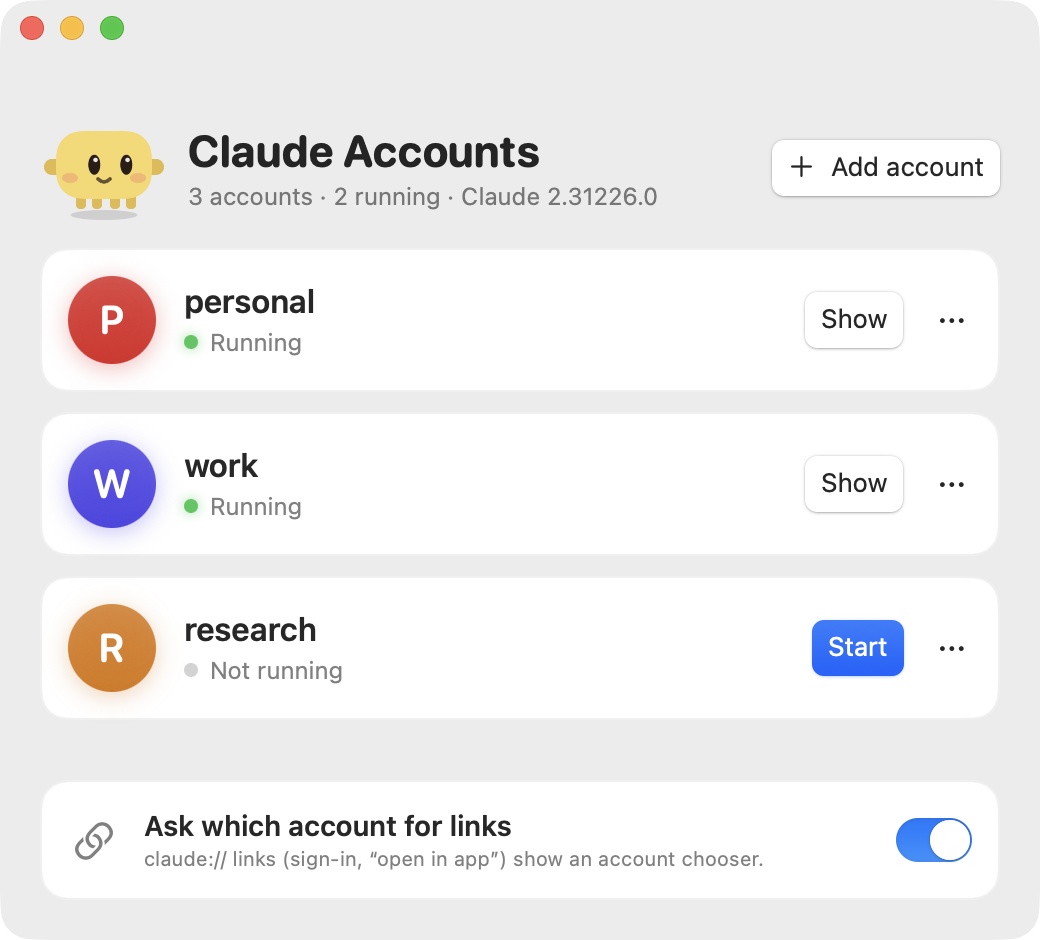
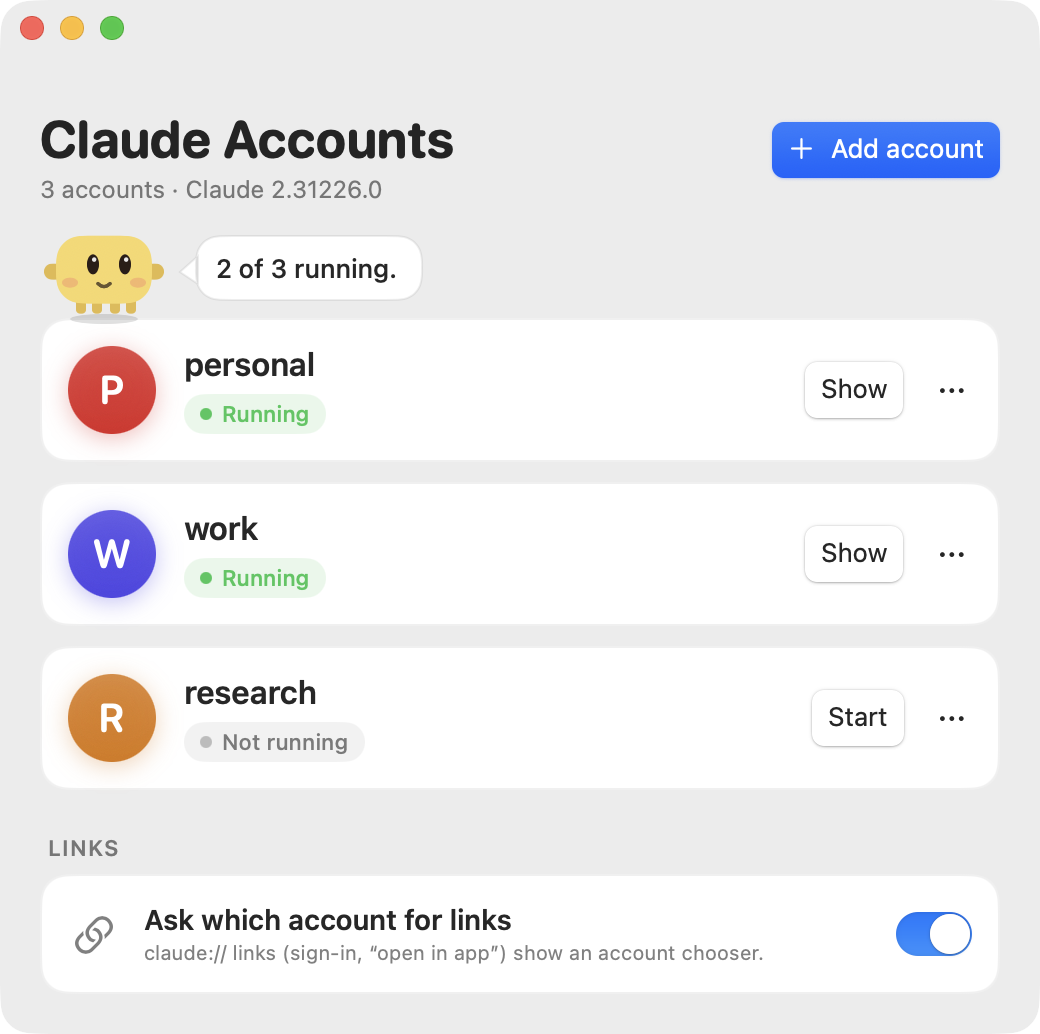
Window hierarchy with mascot bubble, hidden Edit/View menus, import of earlier setups, release notes file, Actions cleanup

diff --git a/Sources/ClaudeAccounts/ContentView.swift b/Sources/ClaudeAccounts/ContentView.swift
@@ -25,27 +25,56 @@ struct Card<Content: View>: View {
     }
 }
 
+/// Speech bubble with a small tail on the left, pointing at the mascot.
+struct BubbleShape: Shape {
+    func path(in r: CGRect) -> Path {
+        var p = Path()
+        let tail: CGFloat = 8
+        p.addRoundedRect(in: CGRect(x: r.minX + tail, y: r.minY, width: r.width - tail, height: r.height), cornerSize: CGSize(width: 12, height: 12))
+        p.move(to: CGPoint(x: r.minX + tail + 1, y: r.midY - 6))
+        p.addLine(to: CGPoint(x: r.minX, y: r.midY + 2))
+        p.addLine(to: CGPoint(x: r.minX + tail + 1, y: r.midY + 8))
+        p.closeSubpath()
+        return p
+    }
+}
+
+struct SectionLabel: View {
+    let text: String
+    init(_ t: String) { text = t }
+    var body: some View {
+        Text(text.uppercased()).font(.system(size: 11, weight: .semibold)).tracking(0.6).foregroundStyle(.secondary)
+            .padding(.leading, 4)
+    }
+}
+
 struct ContentView: View {
     @EnvironmentObject var m: Manager
+    @ObservedObject private var updates = Updates.shared
     @State private var newName = ""
     @State private var firstName = "personal"
     @State private var happyUntil = Date.distantPast
     private let tick = Timer.publish(every: 2, on: .main, in: .common).autoconnect()
 
     var body: some View {
-        VStack(spacing: 0) {
+        VStack(alignment: .leading, spacing: 0) {
             header
             if Paths.sourceApp == nil {
                 message("Claude.app not found", "Install Claude Desktop in /Applications first, then reopen this app.")
             } else if m.accounts.isEmpty {
                 firstRun
             } else {
+                mascotRow
                 ScrollView {
-                    VStack(spacing: 10) { ForEach(m.accounts) { row($0) } }.padding(.horizontal, 20).padding(.bottom, 16)
+                    VStack(spacing: 10) {
+                        ForEach(m.accounts) { row($0) }
+                        ForEach(m.importable(), id: \.dir) { importCard($0) }
+                    }.padding(.horizontal, 20).padding(.vertical, 2)
                 }
-                .frame(height: CGFloat(min(m.accounts.count, 6)) * 80 + 6) // the window grows with the list
+                .frame(height: listHeight)
+                SectionLabel("Links").padding(.horizontal, 20).padding(.top, 14).padding(.bottom, 6)
+                routingCard.padding(.horizontal, 20).padding(.bottom, 20)
             }
-            routingCard.padding(20).padding(.top, 0)
         }
         .background(Color(nsColor: .windowBackgroundColor))
         .onAppear { m.refresh(); m.healAgentPath() }
@@ -58,31 +87,53 @@ struct ContentView: View {
         .sheet(isPresented: $m.showAdd) { addSheet }
     }
 
+    private var listHeight: CGFloat { CGFloat(min(m.accounts.count + m.importable().count, 6)) * 80 + 6 }
+
     // MARK: pieces
 
     private var header: some View {
-        HStack(alignment: .center, spacing: 10) {
-            Mascot(happyUntil: happyUntil).onTapGesture { cheer() }
-            VStack(alignment: .leading, spacing: 2) {
-                Text("Claude Accounts").font(.system(size: 22, weight: .bold, design: .rounded))
+        HStack(alignment: .firstTextBaseline) {
+            VStack(alignment: .leading, spacing: 3) {
+                Text("Claude Accounts").font(.system(size: 26, weight: .bold, design: .rounded))
                 Text(subtitle).font(.callout).foregroundStyle(.secondary)
             }
             Spacer()
             if !m.accounts.isEmpty {
                 Button { newName = ""; m.showAdd = true } label: { Label("Add account", systemImage: "plus") }
-                    .controlSize(.large)
+                    .buttonStyle(.borderedProminent).controlSize(.large)
             }
         }
-        .padding(.horizontal, 20).padding(.top, 28).padding(.bottom, 12)
+        .padding(.horizontal, 20).padding(.top, 26).padding(.bottom, 6)
     }
-
-    private func cheer() { happyUntil = Date().addingTimeInterval(1.6) }
 
     private var subtitle: String {
         let n = m.accounts.count
-        let up = m.running.count
         if n == 0 { return "Several Claude sign-ins, side by side" }
-        return "\(n) account\(n == 1 ? "" : "s") · \(up) running" + (m.sourceVersion.map { " · Claude \($0)" } ?? "")
+        return "\(n) account\(n == 1 ? "" : "s")" + (m.sourceVersion.map { " · Claude \($0)" } ?? "")
+    }
+
+    /// The mascot stands on the edge of the account list and comments on what is going on.
+    private var mascotRow: some View {
+        HStack(alignment: .bottom, spacing: 6) {
+            Mascot(happyUntil: happyUntil).onTapGesture { cheer() }
+            Text(bubbleText)
+                .font(.system(size: 13, weight: .medium))
+                .padding(.leading, 18).padding(.trailing, 12).padding(.vertical, 8)
+                .background(BubbleShape().fill(Color(nsColor: .controlBackgroundColor)))
+                .overlay(BubbleShape().stroke(Color.primary.opacity(0.08)))
+                .padding(.bottom, 14)
+                .animation(.easeInOut(duration: 0.2), value: bubbleText)
+            Spacer()
+        }
+        .padding(.horizontal, 20).padding(.bottom, -7).zIndex(1)
+    }
+
+    private var bubbleText: String {
+        let n = m.accounts.count, up = m.running.count
+        if updates.available { return "A new version is ready. See the app menu." }
+        if up == 0 { return "Hi! Pick an account to start." }
+        if up == n { return n == 1 ? "All set, it's running." : "All \(n) running." }
+        return "\(up) of \(n) running."
     }
 
     private func row(_ a: Account) -> some View {
@@ -90,20 +141,19 @@ struct ContentView: View {
         return Card {
             HStack(spacing: 14) {
                 BadgeView(name: a.name)
-                VStack(alignment: .leading, spacing: 3) {
+                VStack(alignment: .leading, spacing: 5) {
                     Text(a.name).font(.system(size: 16, weight: .semibold))
-                    HStack(spacing: 6) {
-                        Circle().fill(isUp ? Color.green : Color.secondary.opacity(0.35)).frame(width: 7, height: 7)
-                            .shadow(color: isUp ? .green.opacity(0.6) : .clear, radius: 3)
-                        Text(isUp ? "Running" : "Not running").font(.callout).foregroundStyle(.secondary)
+                    HStack(spacing: 5) {
+                        Circle().fill(isUp ? Color.green : Color.secondary.opacity(0.45)).frame(width: 6, height: 6)
+                        Text(isUp ? "Running" : "Not running").font(.system(size: 11, weight: .medium))
+                            .foregroundStyle(isUp ? Color.green : Color.secondary)
                     }
+                    .padding(.horizontal, 8).padding(.vertical, 3)
+                    .background(Capsule().fill(isUp ? Color.green.opacity(0.13) : Color.primary.opacity(0.06)))
                 }
                 Spacer()
-                if isUp {
-                    Button("Show") { m.startReportingErrors(a) }.buttonStyle(.bordered).controlSize(.large)
-                } else {
-                    Button("Start") { m.startReportingErrors(a) }.buttonStyle(.borderedProminent).controlSize(.large)
-                }
+                Button(isUp ? "Show" : "Start") { m.startReportingErrors(a) }
+                    .buttonStyle(.bordered).controlSize(.large).foregroundStyle(isUp ? Color.primary : Color.accentColor)
                 Menu {
                     Button(m.hasLauncher(a) ? "Recreate launcher" : "Create launcher in Applications") { m.makeLauncher(a) }
                     Button("Show data folder") {
@@ -114,6 +164,21 @@ struct ContentView: View {
                     Button("Remove account…", role: .destructive) { m.remove(a) }
                 } label: { Image(systemName: "ellipsis").font(.system(size: 15, weight: .semibold)).frame(width: 26, height: 26) }
                     .menuStyle(.borderlessButton).menuIndicator(.hidden).fixedSize()
+            }
+        }
+    }
+
+    private func importCard(_ f: (name: String, dir: String)) -> some View {
+        Card {
+            HStack(spacing: 12) {
+                Image(systemName: "tray.and.arrow.down").font(.system(size: 18)).foregroundStyle(.secondary).frame(width: 30)
+                VStack(alignment: .leading, spacing: 2) {
+                    Text("Found “Claude-\(f.name)”").font(.system(size: 14, weight: .semibold))
+                    Text("An earlier Claude sign-in on this Mac.").font(.caption).foregroundStyle(.secondary)
+                }
+                Spacer()
+                Button("Not now") { m.dismissImport(dir: f.dir) }.buttonStyle(.plain).foregroundStyle(.secondary).font(.callout)
+                Button("Add as “\(f.name)”") { m.addImported(name: f.name, dir: f.dir) }.buttonStyle(.bordered)
             }
         }
     }
@@ -134,6 +199,8 @@ struct ContentView: View {
         }
     }
 
+    private func cheer() { happyUntil = Date().addingTimeInterval(1.6) }
+
     private func message(_ title: String, _ text: String) -> some View {
         VStack(spacing: 8) {
             Text(title).font(.title3.bold())
@@ -143,7 +210,6 @@ struct ContentView: View {
 
     private var firstRun: some View {
         VStack(spacing: 16) {
-            Spacer()
             Mascot(happyUntil: happyUntil, scale: 1.6).onTapGesture { cheer() }
             Text("Your current Claude sign-in becomes the first account.").font(.headline)
             Text("Add more afterwards; each one gets its own sign-in and its own copy of Claude.")
@@ -154,8 +220,7 @@ struct ContentView: View {
             }
             Button("Get started") { m.addExistingLogin(named: firstName.trimmingCharacters(in: .whitespaces)) }
                 .buttonStyle(.borderedProminent).controlSize(.large).keyboardShortcut(.defaultAction)
-            Spacer()
-        }.padding(.horizontal, 32).frame(maxWidth: .infinity).frame(height: 330)
+        }.padding(.horizontal, 32).padding(.vertical, 20).frame(maxWidth: .infinity)
     }
 
     private var addSheet: some View {

diff --git a/Sources/ClaudeAccounts/Manager.swift b/Sources/ClaudeAccounts/Manager.swift
@@ -146,6 +146,36 @@ final class Manager: ObservableObject {
         Account(name: name, dataDir: Paths.appSupport + "/Claude-" + name, appPath: Paths.apps + "/" + name + "/Claude.app")
     }
 
+    /// Data folders of earlier "one --user-data-dir per account" setups (~/Library/Application Support/Claude-<name>)
+    /// that are not registered yet. Only folder names are looked at, never their contents.
+    func importable() -> [(name: String, dir: String)] {
+        let known = Set(accounts.compactMap(\.dataDir))
+        let names = (try? FileManager.default.contentsOfDirectory(atPath: Paths.importScanDir)) ?? []
+        // "Claude-3p" belongs to Claude's own third-party mode, not to an account
+        let ignored = Set(UserDefaults.standard.stringArray(forKey: "ignoredImports") ?? []).union(["Claude-3p"])
+        return names.sorted().compactMap { n in
+            guard n.hasPrefix("Claude-"), !ignored.contains(n) else { return nil }
+            let name = String(n.dropFirst("Claude-".count)), dir = Paths.importScanDir + "/" + n
+            guard Registry.validName(name), !known.contains(dir),
+                  !accounts.contains(where: { $0.name.caseInsensitiveCompare(name) == .orderedSame }) else { return nil }
+            return (name, dir)
+        }
+    }
+
+    func dismissImport(dir: String) {
+        let n = (dir as NSString).lastPathComponent
+        UserDefaults.standard.set((UserDefaults.standard.stringArray(forKey: "ignoredImports") ?? []) + [n], forKey: "ignoredImports")
+        objectWillChange.send()
+    }
+
+    /// Registers an existing data folder as an account (its own copy of Claude.app, the sign-in stays where it is).
+    func addImported(name: String, dir: String) {
+        let a = Account(name: name, dataDir: dir, appPath: Paths.apps + "/" + name + "/Claude.app")
+        do { try ensureCopy(a) } catch { self.error = error.localizedDescription; return }
+        accounts.append(a); Registry.save(accounts); log("imported \(name) from \(dir)")
+        makeLauncher(a)
+    }
+
     /// First account of a fresh setup: the user's existing Claude login (default data folder, original app).
     func addExistingLogin(named name: String) {
         guard let src = Paths.sourceApp else { error = "Claude.app was not found in /Applications."; return }

diff --git a/Sources/ClaudeAccounts/App.swift b/Sources/ClaudeAccounts/App.swift
@@ -1,6 +1,13 @@
 import SwiftUI
 
 final class AppDelegate: NSObject, NSApplicationDelegate {
+    func applicationDidFinishLaunching(_ notification: Notification) {
+        // SwiftUI rebuilds the menu bar now and then; hide the unneeded Edit and View menus again each time.
+        NotificationCenter.default.addObserver(forName: NSApplication.didUpdateNotification, object: nil, queue: .main) { _ in
+            MainActor.assumeIsolated { hideUnneededMenus() }
+        }
+    }
+
     func application(_ application: NSApplication, open urls: [URL]) {
         Task { @MainActor in
             let m = Manager.shared
@@ -18,6 +25,18 @@ final class AppDelegate: NSObject, NSApplicationDelegate {
     }
 
     func applicationShouldTerminateAfterLastWindowClosed(_ sender: NSApplication) -> Bool { true }
+}
+
+/// Hides the Edit and View menus (found by their contents, not their titles, so it works in any language). Hidden, not
+/// removed: the Cmd-C/V/X/A shortcuts must keep working in text fields.
+@MainActor
+func hideUnneededMenus() {
+    for item in NSApp.mainMenu?.items ?? [] where !item.isHidden {
+        guard let items = item.submenu?.items else { continue }
+        let actions = items.compactMap(\.action)
+        // Edit has the standard paste action; View is left holding nothing but separators
+        if actions.contains(#selector(NSText.paste(_:))) || items.allSatisfy(\.isSeparatorItem) { item.isHidden = true }
+    }
 }
 
 enum Links { static let repo = URL(string: "https://github.com/tschannik/claude-account-router")! }

diff --git a/Sources/ClaudeAccounts/Updates.swift b/Sources/ClaudeAccounts/Updates.swift
@@ -9,6 +9,7 @@ final class Updates: ObservableObject {
 
     /// Set when a newer version was found; the mascot hops for joy.
     @Published var found = Date.distantPast
+    @Published var available = false
 
     private let delegate = Delegate()
     private(set) var controller: SPUStandardUpdaterController?
@@ -19,7 +20,7 @@ final class Updates: ObservableObject {
         let info = Bundle.main.infoDictionary ?? [:]
         let version = info["CFBundleShortVersionString"] as? String ?? ""
         guard info["SUFeedURL"] != nil, !version.contains("dev") else { return }
-        delegate.onFound = { [weak self] in Task { @MainActor in self?.found = Date().addingTimeInterval(1.6) } }
+        delegate.onFound = { [weak self] in Task { @MainActor in self?.found = Date().addingTimeInterval(1.6); self?.available = true } }
         controller = SPUStandardUpdaterController(startingUpdater: true, updaterDelegate: delegate, userDriverDelegate: nil)
     }
 

diff --git a/Sources/ClaudeAccounts/Registry.swift b/Sources/ClaudeAccounts/Registry.swift
@@ -23,6 +23,9 @@ enum Paths {
     static let agentPlist = home + "/Library/LaunchAgents/" + agentLabel + ".plist"
     static let launchServicesPrefs = home + "/Library/Preferences/com.apple.LaunchServices/com.apple.launchservices.secure.plist"
 
+    // Where earlier setups left their Claude-<name> data folders (overridable for README screenshots).
+    static let importScanDir = ProcessInfo.processInfo.environment["CLAUDE_ACCOUNTS_IMPORT_DIR"] ?? appSupport
+
     static let claudeBundleID = "com.anthropic.claudefordesktop"
 
     /// The installed Claude.app every account copy is cloned from.

diff --git a/README.md b/README.md
@@ -39,6 +39,8 @@ Requires macOS 13 or later and [Claude Desktop](https://claude.ai/download) in `
   random window. If the chosen account is not running, it is started first.
 - **Launchers**: the `...` menu of an account can create `Claude <name>.app` in `~/Applications/Claude Accounts`, with
   the Claude icon and a coloured letter badge, for Dock, Spotlight and Raycast.
+- **Earlier setups are picked up.** If you already used one `--user-data-dir` folder per account
+  (`~/Library/Application Support/Claude-<name>`), the app offers to add each one, sign-in included.
 - **Remove account** deletes the account's entry, its copy of Claude and its launcher. Your sign-in data folder
   (`~/Library/Application Support/Claude-<name>`) is never deleted.
 
@@ -92,7 +94,8 @@ requests. CI builds every PR.
 
 Releases are cut by the maintainer by pushing a `v*` tag; the
 [release workflow](.github/workflows/release.yml) builds, signs, notarizes and drafts the GitHub Release.
-Publishing the draft is what makes the update visible to installed apps.
+Publishing the draft is what makes the update visible to installed apps. The release text comes from
+`release-notes/<version>.md` (falling back to the commit list) and is used for both the draft and the update window.
 
 ## License
 

diff --git a/release-notes/1.0.0.md b/release-notes/1.0.0.md
@@ -1,0 +1,8 @@
+## What's new in 1.0
+
+- **Several Claude accounts, side by side.** Each account has its own sign-in and its own window.
+- **`claude://` links go to the right account.** Sign-in callbacks and "open in app" links show a small chooser instead of landing in a random window.
+- **Launchers** for Dock, Spotlight and Raycast, with a coloured badge per account.
+- **Picks up earlier setups.** Existing `Claude-<name>` data folders are offered as accounts, no new sign-in needed.
+- **Updates itself.** A daily check, signed and notarized releases, and a "Check for Updates…" menu item.
+- A butter-yellow mascot who keeps you company.
